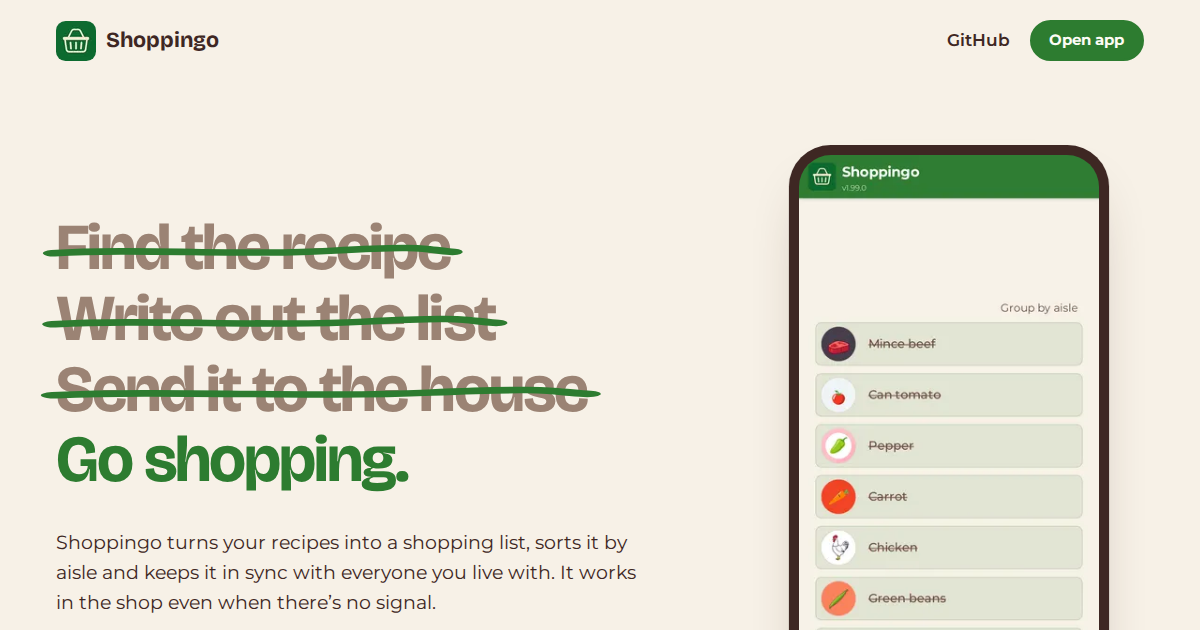
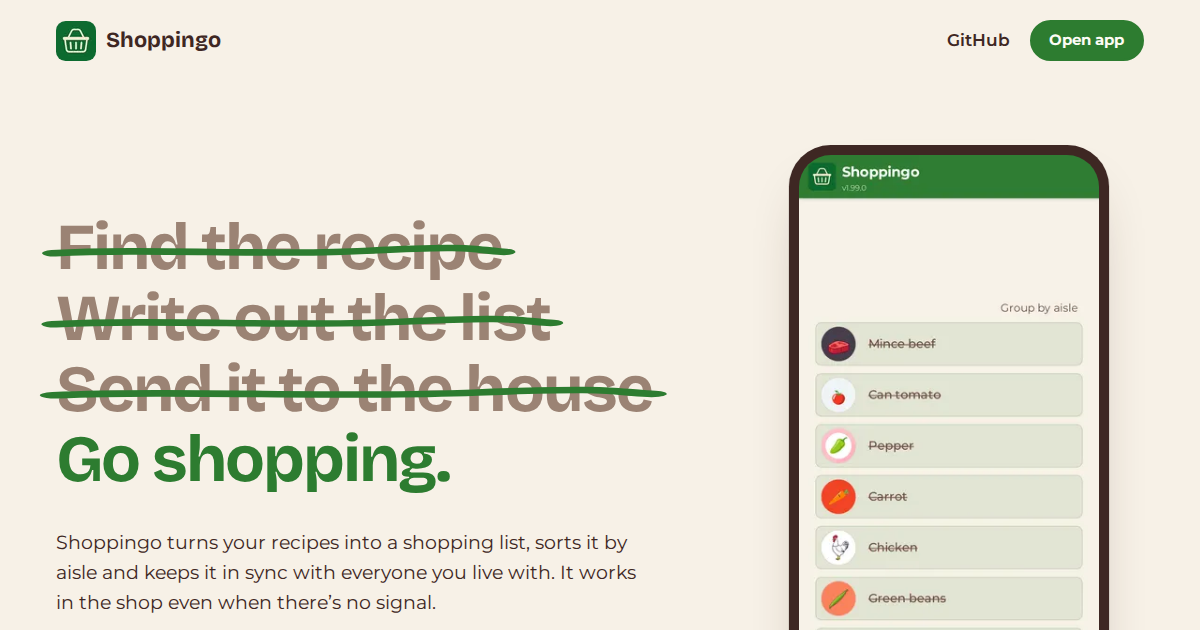
fix: use the default Bricolage Grotesque import so fallow resolves it

diff --git a/src/styles.css b/src/styles.css
@@ -1,5 +1,5 @@
 @import "tailwindcss";
-@import "@fontsource-variable/bricolage-grotesque/opsz.css";
+@import "@fontsource-variable/bricolage-grotesque";
 @import "@fontsource-variable/montserrat";
 
 /* Palette taken from the Shoppingo app's own tokens so the site and the app read as one product. */
@@ -38,7 +38,6 @@
     --color-foreground: var(--ink);
     --color-primary: var(--forest);
     --color-muted-foreground: var(--ink-soft);
-    --color-ring: var(--forest);
 }
 
 @utility container {
